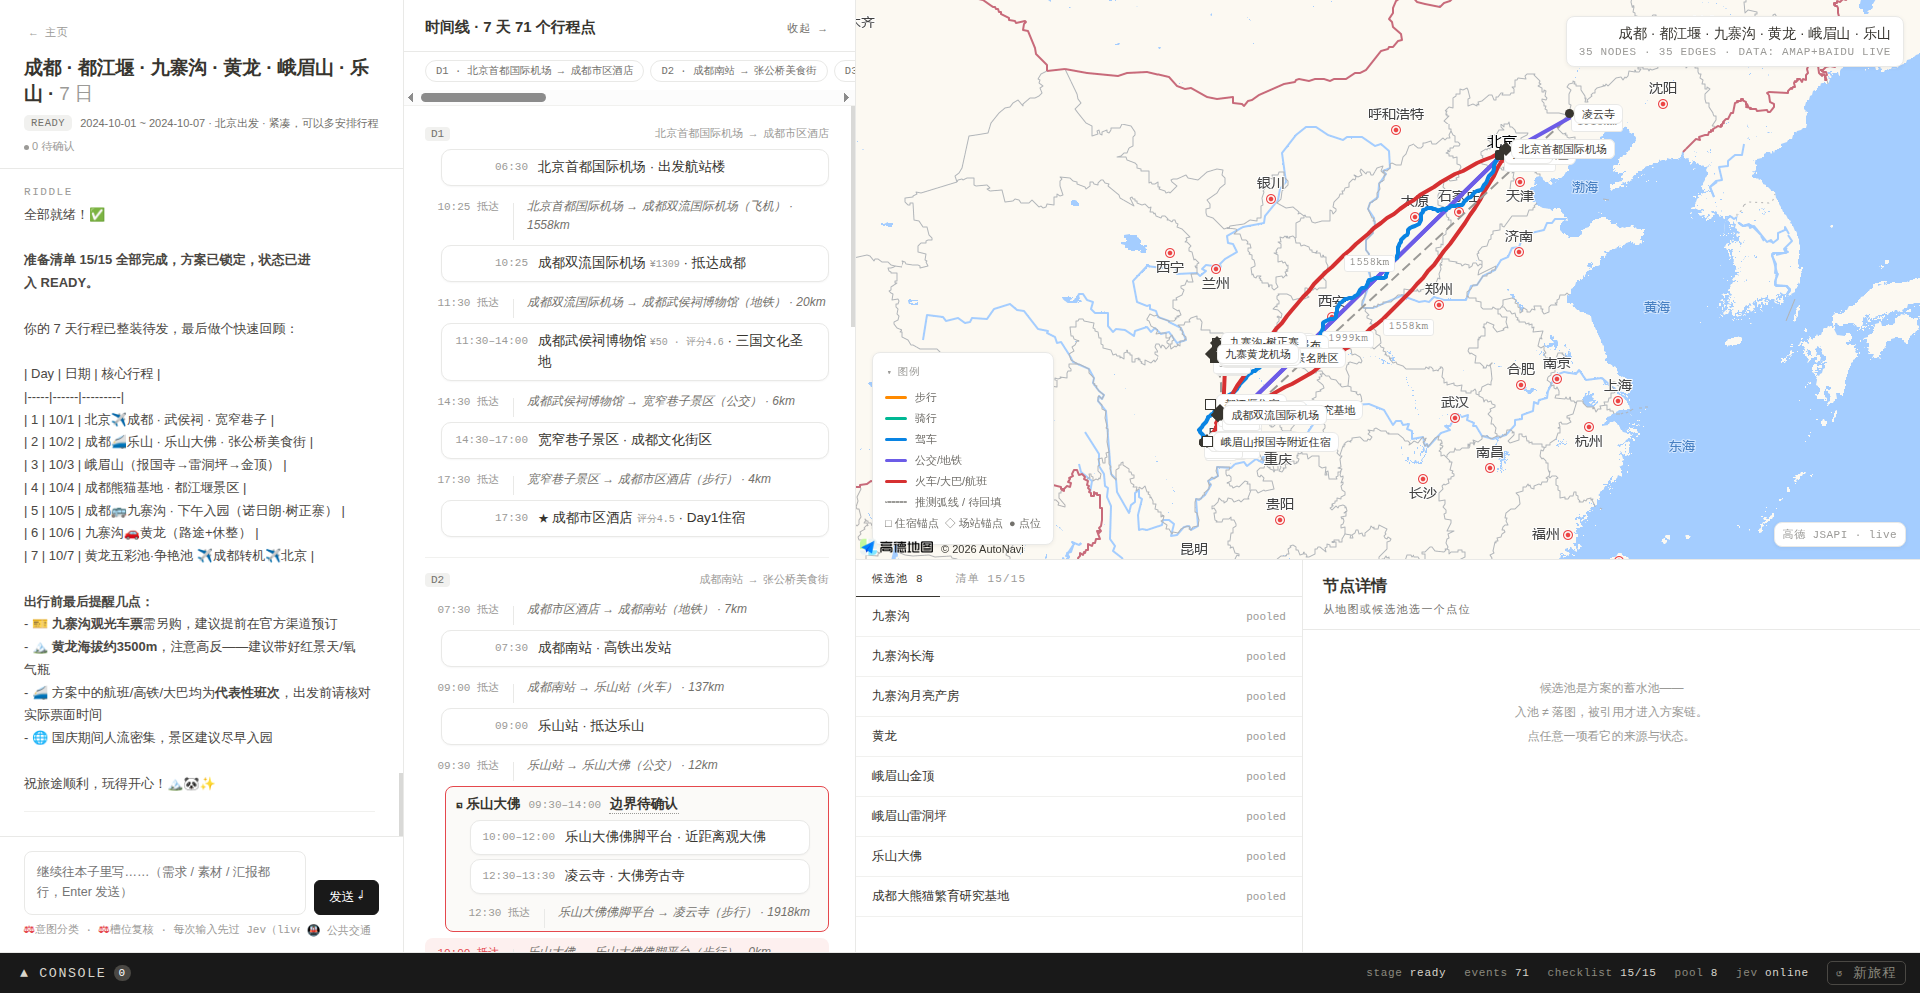
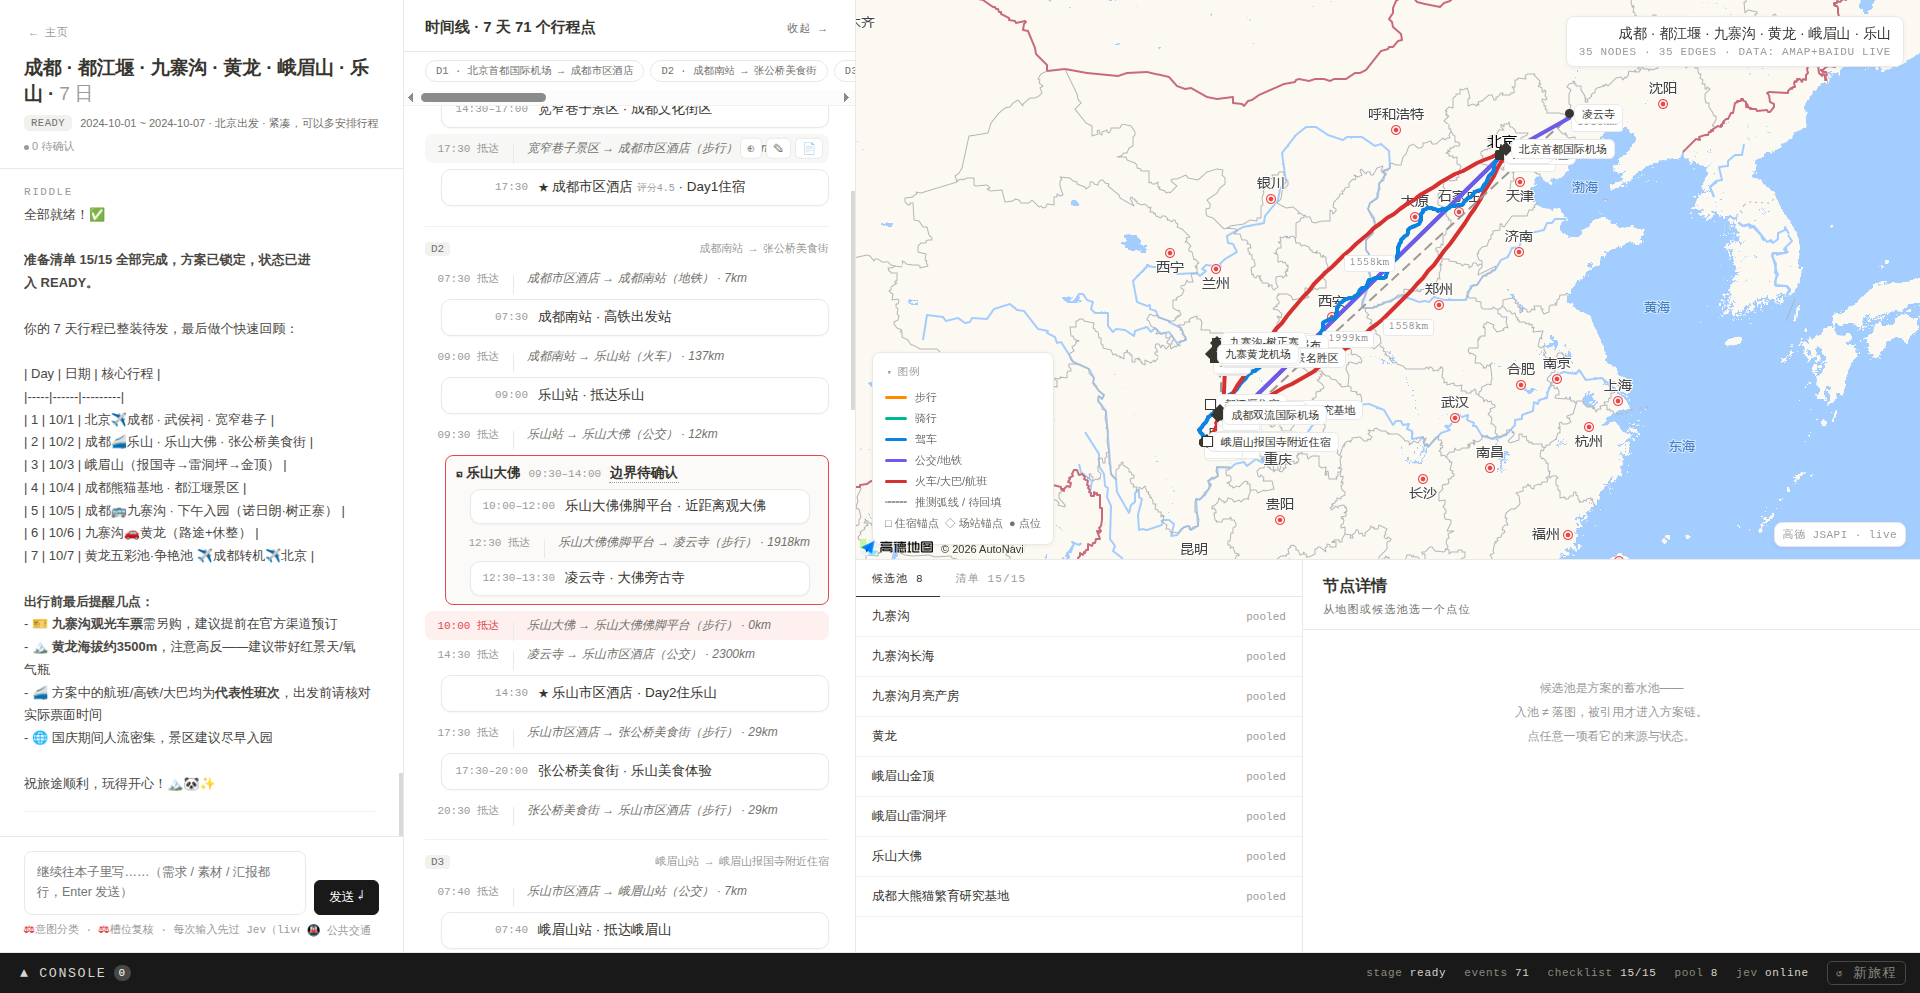
fix(ui): 归框 route 插到 from_ref 之后——出现在两个端点之间而非框底
归框 route 不参与 seq 排序（后建 seq 大被甩到框底），按语义插到 from_ref
指向的子事件后面；端点不在当天子链时按时间回退插入。验证：乐山大佛框内
佛脚平台 → 佛脚平台→凌云寺 route → 凌云寺，截图更新

Changed region(s): [[0.2188, 0.2497, 0.4375, 0.9678], [0.2188, 0.0937, 0.4375, 0.2185]]

diff --git a/UI/app.html b/UI/app.html
@@ -795,8 +795,17 @@ function renderTimeline(){
       if(e.kind==='aoi'){
         // AOI 一律带框（无子事件 = 只有头部的框，如黄龙）；子事件在框内也是卡（框中框）
         const kids = v2Kids(e.event_id).filter(k=>k.day_refs?.includes(d))
-          .concat(v2Live().filter(r=>innerRouteAoi[r.event_id]===e.event_id && r.day_refs?.includes(d)))
           .sort((a,b)=>a.seq-b.seq || (a.time_window?.start??'99').localeCompare(b.time_window?.start??'99'));
+        /* 0.5.1：归框 route 不参与 seq 排序（它后建、seq 比子事件大，会被甩到框底），
+           语义上它在两个端点之间——插到 from_ref 指向的子事件后面；
+           端点不在当天子链里时按时间回退插入。 */
+        for(const r of v2Live().filter(r=>innerRouteAoi[r.event_id]===e.event_id && r.day_refs?.includes(d))){
+          let idx = kids.findIndex(k=>k.event_id===r.detail?.from_ref);
+          if(idx>=0){ kids.splice(idx+1,0,r); continue; }
+          const rt = r.time_window?.start ?? '99';
+          idx = kids.findIndex(k=>(k.time_window?.start??'99') > rt);
+          kids.splice(idx>=0?idx:kids.length, 0, r);
+        }
         const t = timeLabel(e);
         const cf = cfIds.has(e.event_id);
         const pin = e.time_window?.pinned ? '<span class="pin-mark">📌</span>' : '';
